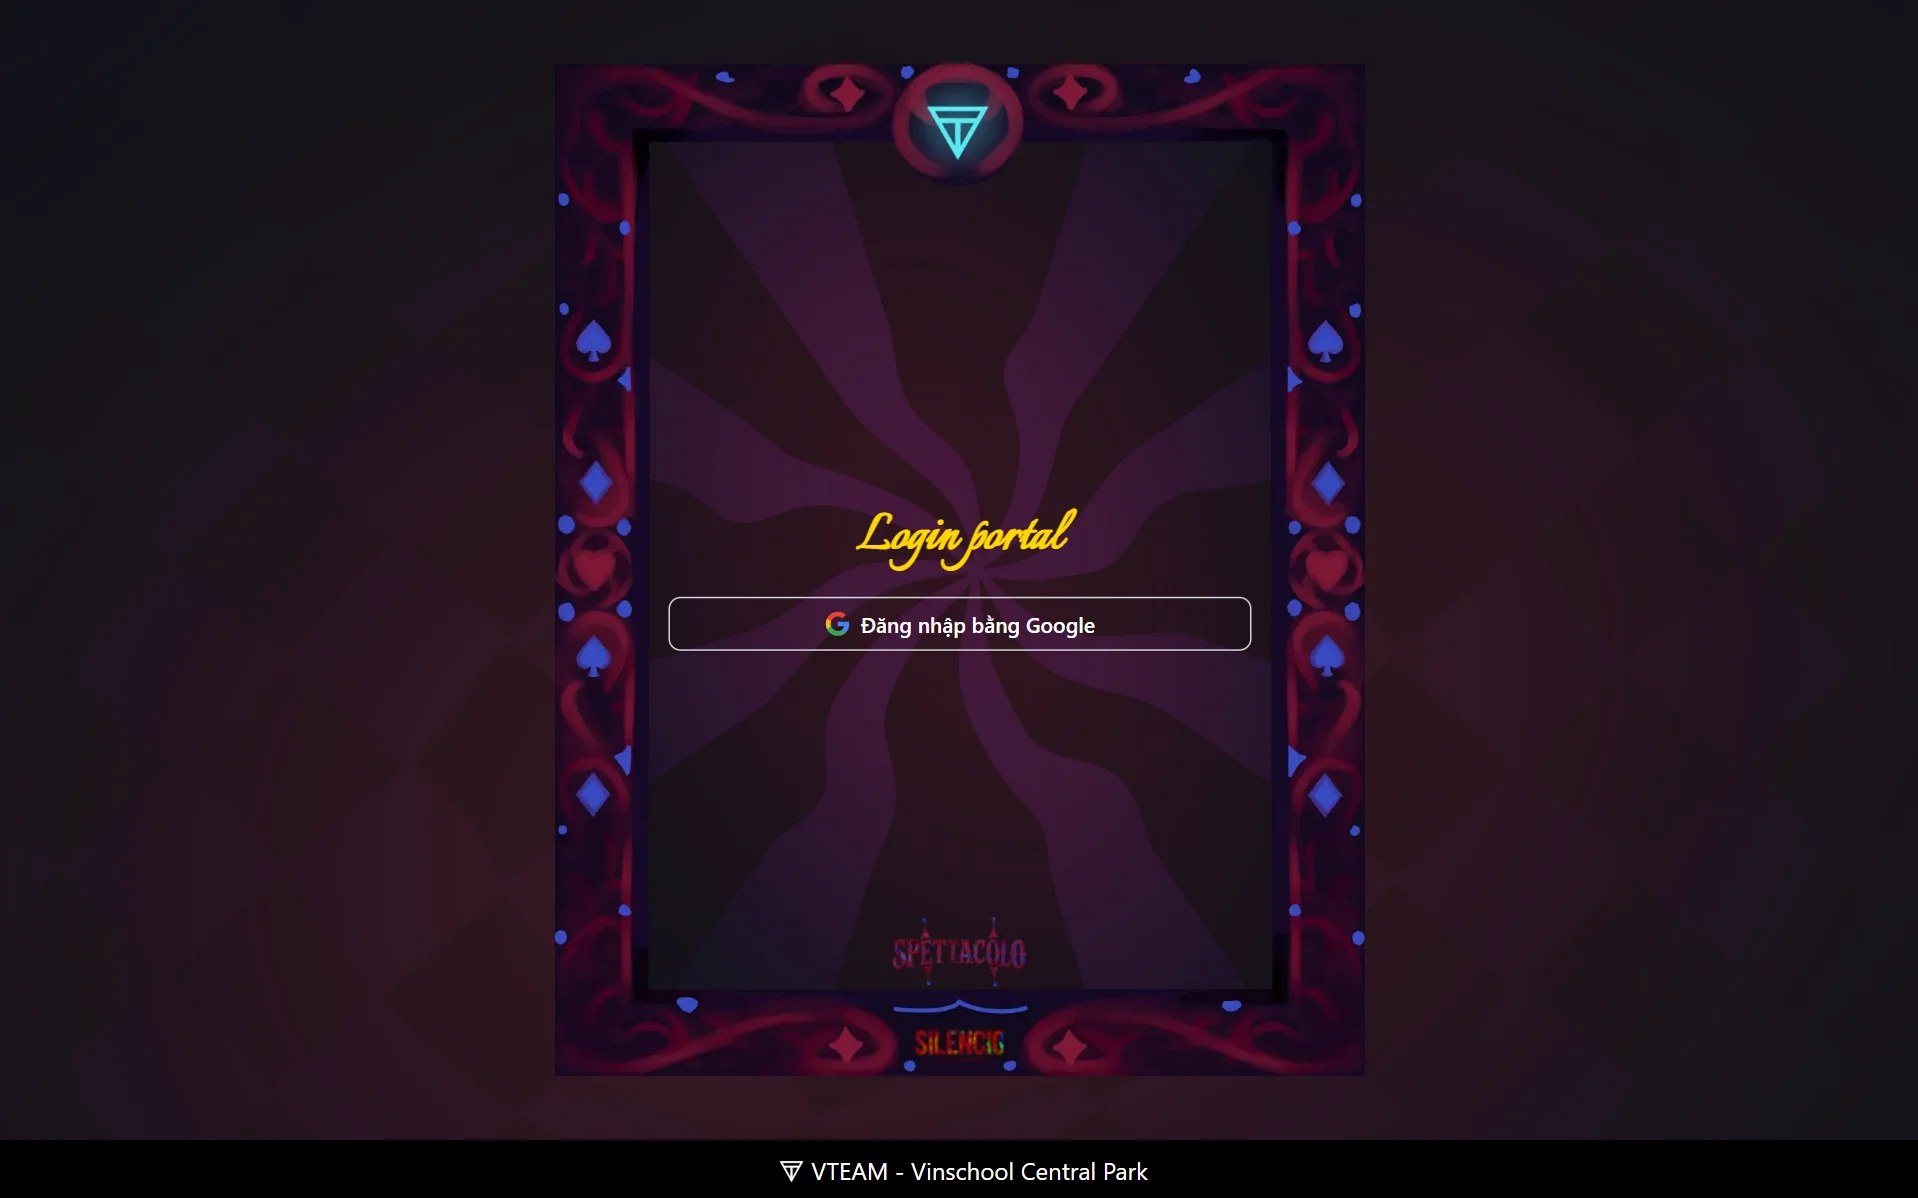
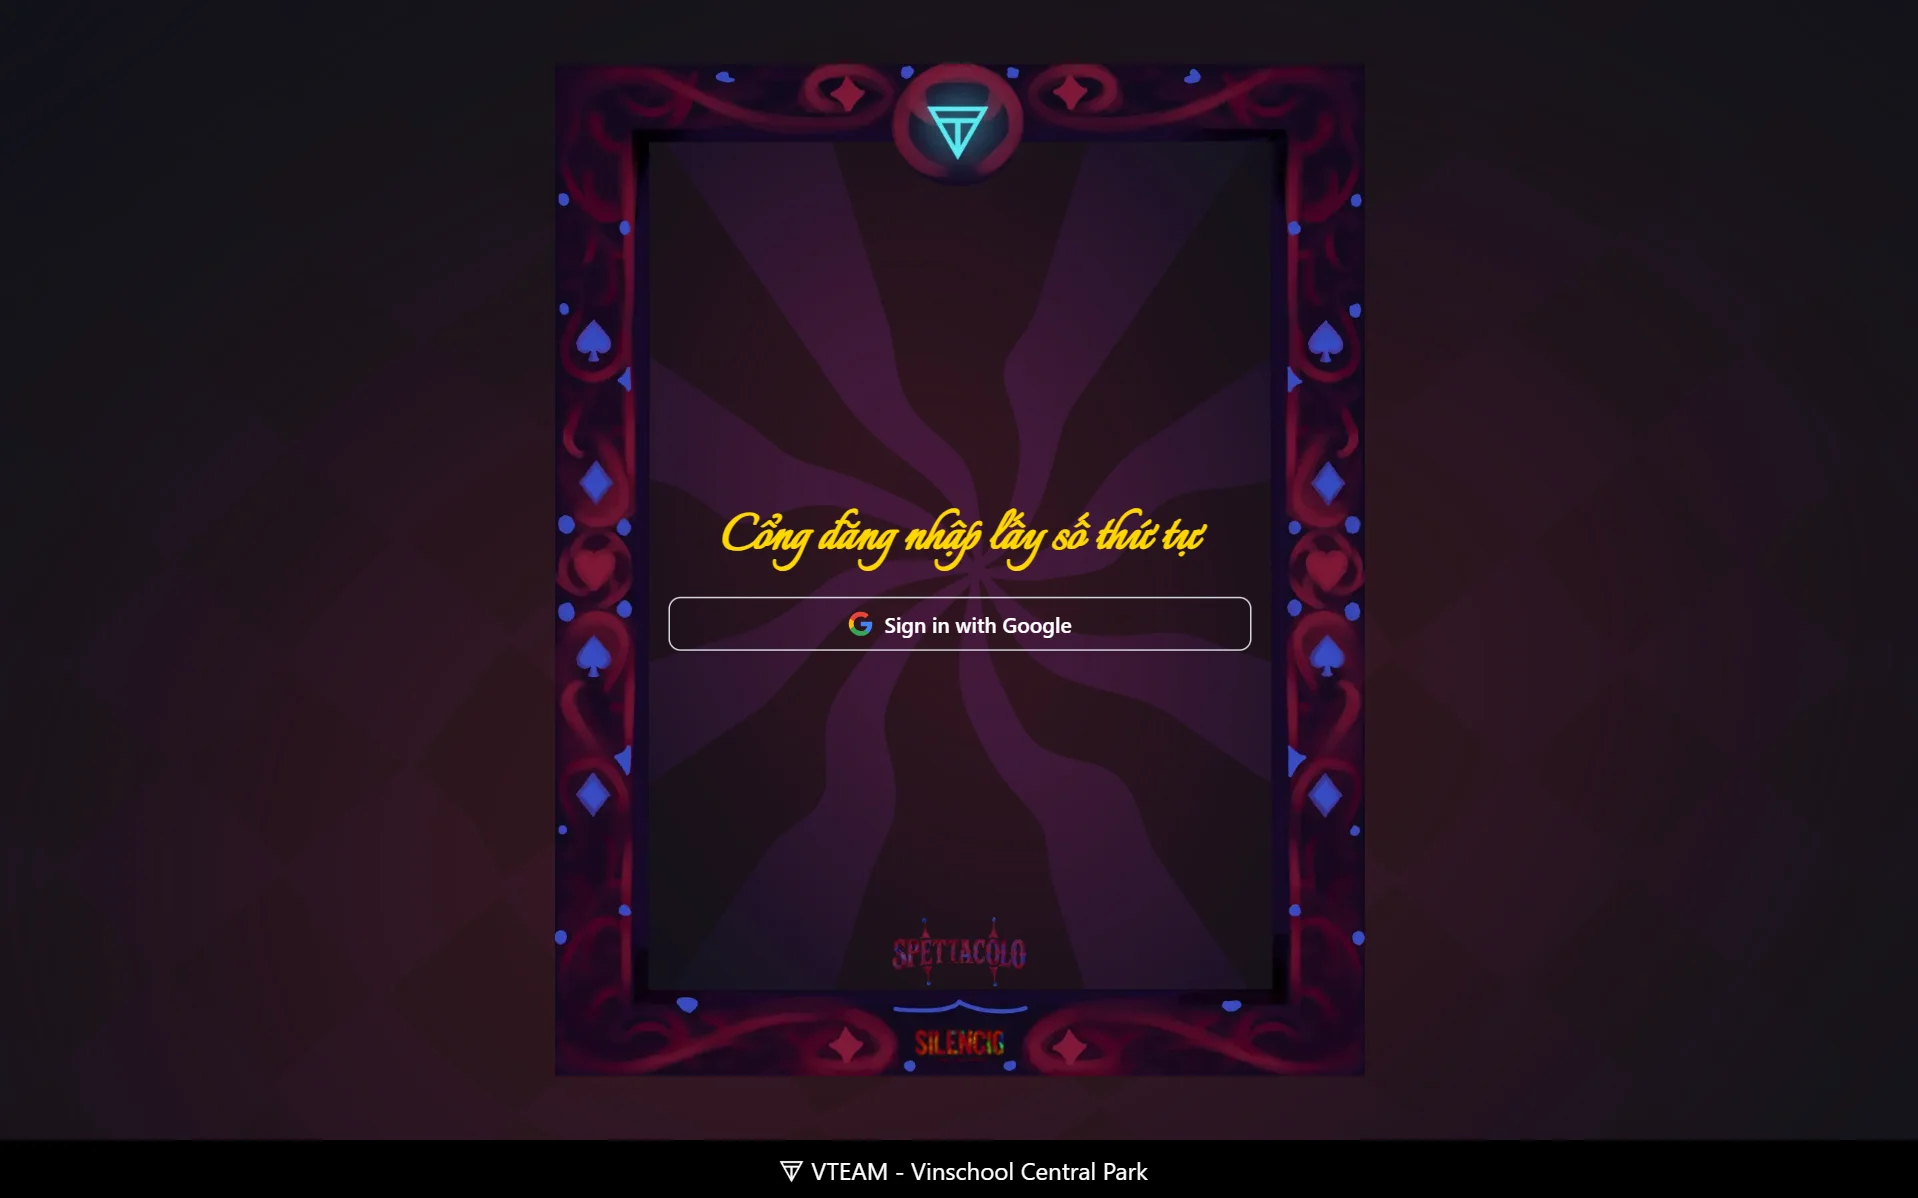
feat: implement Google Sign-In button component, add login image, and update README image paths.

Changed region(s): [[0.3691, 0.4324, 0.646, 0.5559], [0.4307, 0.9574, 0.4614, 0.9883]]

diff --git a/src/components/GoogleSignInButton.tsx b/src/components/GoogleSignInButton.tsx
@@ -54,7 +54,7 @@ export function GoogleSignInButton() {
             </g>
           </svg>
 
-          <span>Đăng nhập bằng Google</span>
+          <span>Sign in with Google</span>
         </>
       </Button>
       {error && <span className="text-red-500">{error}</span>}

diff --git a/README.md b/README.md
@@ -79,13 +79,13 @@ A comprehensive pre-event communication system that sends personalized confirmat
   - Step-by-step check-in instructions (both in-person and online options)
   - Event rules and guidelines
 
-<img src="https://github.com/caocchinh/SILENCIO-checkin/blob/master/public/assets/github/email1.webp?raw=true" alt="400 students lined up and this system worked flawlessly" style="border-radius: 10px; margin-bottom: 10px; margin-top: 10px; width: 100%;" />
+<img src="https://github.com/caocchinh/silencio-queue/blob/master/public/assets/github/email1.webp?raw=true" alt="400 students lined up and this system worked flawlessly" style="border-radius: 10px; margin-bottom: 10px; margin-top: 10px; width: 100%;" />
 
 - **Batch Processing**: Admin can trigger mass email sending from the dashboard with built-in rate limiting (2-second delays) to avoid email provider restrictions.
 - **Tracking & Retry**: The system tracks which students have received their confirmation email and includes a robust retry mechanism with exponential backoff for failed deliveries.
 - **Reminder System**: Separate reminder emails can be sent to students who haven't selected their haunted house queue yet, with individual or batch sending options.
 
-<img src="https://github.com/caocchinh/SILENCIO-checkin/blob/master/public/assets/github/email2.webp?raw=true" alt="400 students lined up and this system worked flawlessly" style="border-radius: 10px; margin-bottom: 10px; margin-top: 10px; width: 100%;" />
+<img src="https://github.com/caocchinh/silencio-queue/blob/master/public/assets/github/email2.webp?raw=true" alt="400 students lined up and this system worked flawlessly" style="border-radius: 10px; margin-bottom: 10px; margin-top: 10px; width: 100%;" />
 
 ## 🛠 Tech Stack
 
